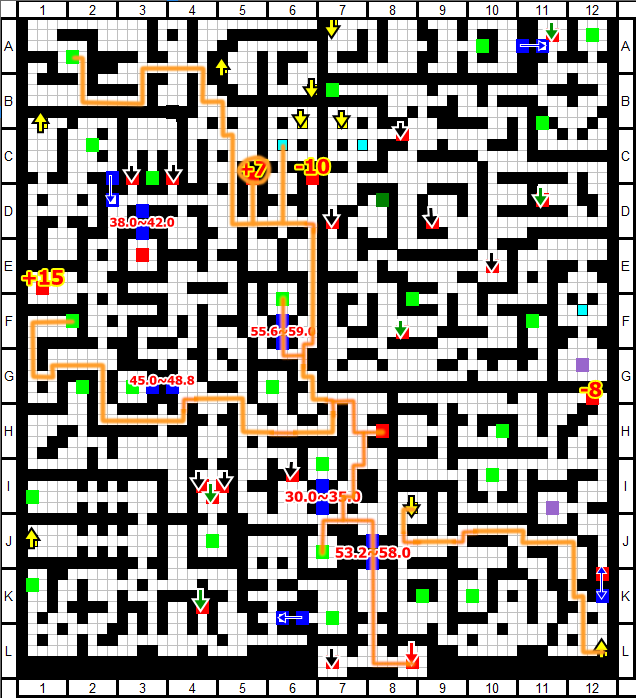
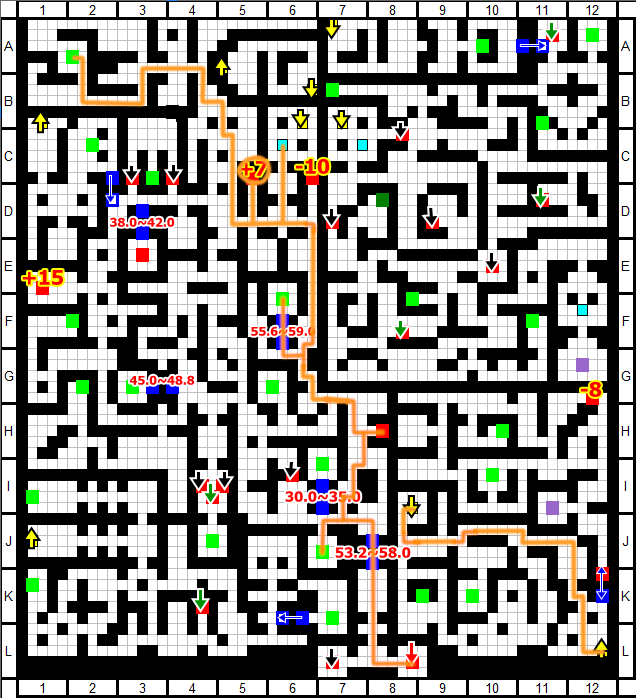
Removed a different key for better optimization

Changed region(s): [[0.0299, 0.4513, 0.5377, 0.6318]]

diff --git a/item/chests.md b/item/chests.md
@@ -389,12 +389,12 @@ Any treasure located in floor A that can only be obtained after reaching floor B
 | Nosferatu Tome | X |
 | Reinforced Leather Armor | X |
 | The Bee | X |
-| Treasure Chest Key | O |
+| Treasure Chest Key | X |
 | Wallbreaker Armband | O |
 | Wisdom Gem | X |
-| Floor Total | 7 |
+| Floor Total | 6 |
 | Possible Skips | 4 |
-| Combined Total | 120 |
+| Combined Total | 119 |
 
 #### <a id="floor-15"></a>Floor 15
 
@@ -429,7 +429,7 @@ Any treasure located in floor A that can only be obtained after reaching floor B
 | Youkai Medal Shattering Axe | X |
 | Floor Total | 9 |
 | Possible Skips | 4 |
-| Combined Total | 129 |
+| Combined Total | 128 |
 
 #### <a id="floor-16"></a>Floor 16
 
@@ -456,7 +456,7 @@ Any treasure located in floor A that can only be obtained after reaching floor B
 | Wash Basin Set | X |
 | Floor Total | 6 |
 | Possible Skips | 4 |
-| Combined Total | 135 |
+| Combined Total | 134 |
 
 #### <a id="floor-17"></a>Floor 17
 
@@ -480,7 +480,7 @@ Any treasure located in floor A that can only be obtained after reaching floor B
 | Water Cutting Sword | X |
 | Floor Total | 3 |
 | Possible Skips | 4 |
-| Combined Total | 138 |
+| Combined Total | 137 |
 
 #### <a id="floor-18"></a>Floor 18
 
@@ -503,7 +503,7 @@ Any treasure located in floor A that can only be obtained after reaching floor B
 | Treasure Chest Key | X |
 | Floor Total | 4 |
 | Possible Skips | 4 |
-| Combined Total | 142 |
+| Combined Total | 141 |
 
 #### <a id="floor-19"></a>Floor 19
 
@@ -532,7 +532,7 @@ Any treasure located in floor A that can only be obtained after reaching floor B
 | Youkai Medal Shattering Axe | X |
 | Floor Total | 4 |
 | Possible Skips | 5 |
-| Combined Total | 146 |
+| Combined Total | 145 |
 
 #### <a id="floor-20"></a>Floor 20
 
@@ -561,7 +561,7 @@ Any treasure located in floor A that can only be obtained after reaching floor B
 | Wisdom Gem | X |
 | Floor Total | 1 |
 | Possible Skips | 5 |
-| Combined Total | 147 |
+| Combined Total | 146 |
 
 ## <a id="neglected-list"></a>Neglected Treasures List
 
